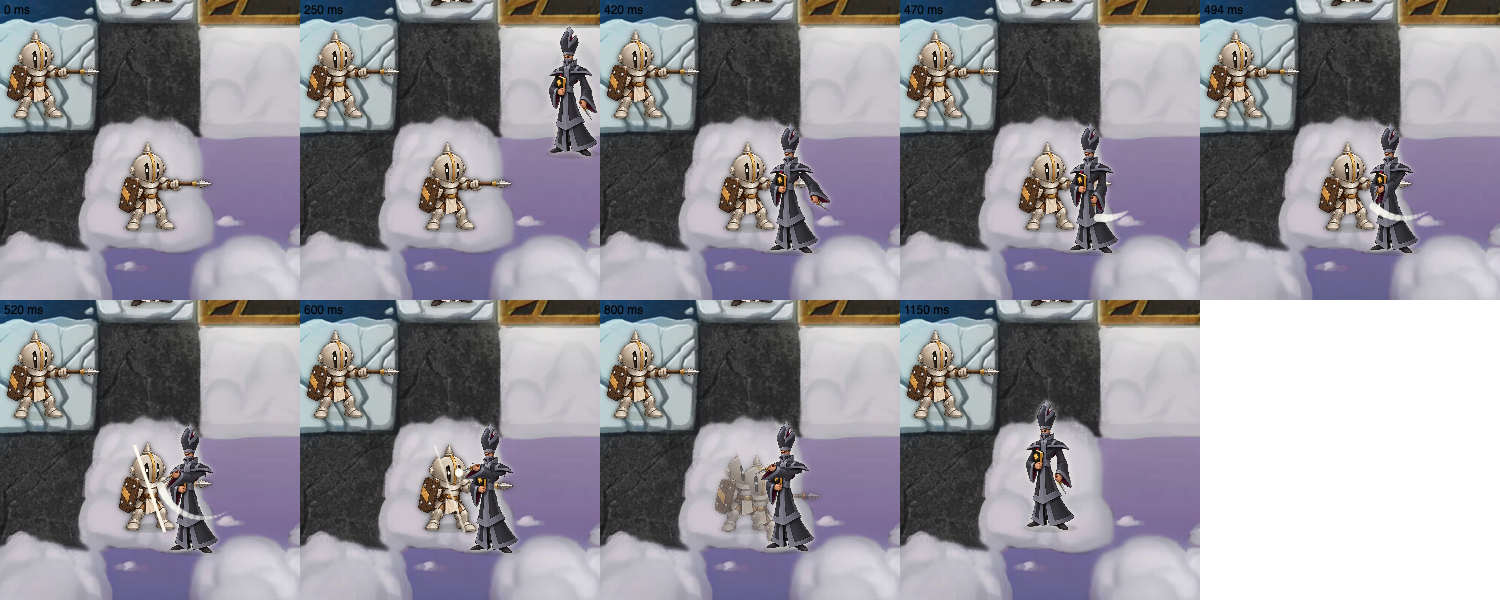
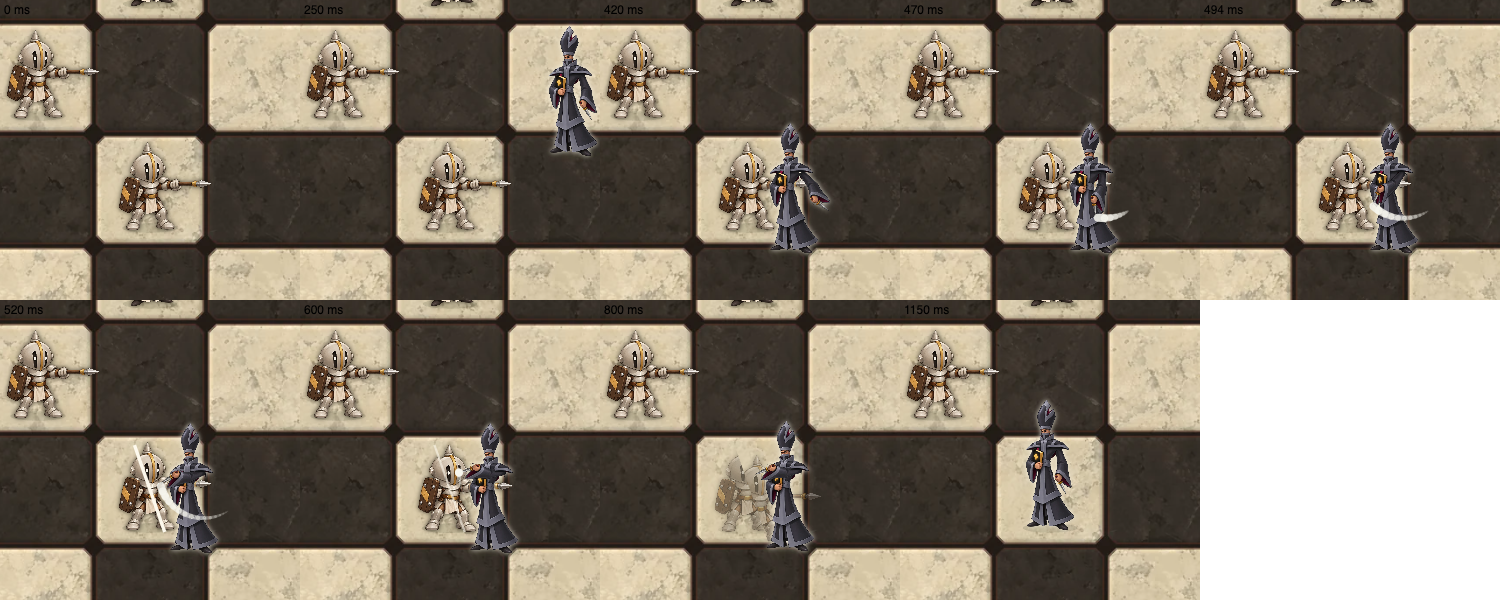
Painted stone board inspired by the original board's capital tiles

diff --git a/docs/2d-first-pieces/board-art/compose-board.py b/docs/2d-first-pieces/board-art/compose-board.py
@@ -1,0 +1,59 @@
+"""Compose the painted stone board from the two generated stone textures.
+
+Inspired by the centre 2x2 (capital) of the original King Down board, without its gold: cream
+limestone and charcoal slate squares with chamfered corners, a thin red-brown outline, a soft
+painted bevel and dark grout. The grid is exact because each square is cut from the textures
+here, not drawn by the image model. Deterministic (fixed seed).
+
+    python3 docs/2d-first-pieces/board-art/compose-board.py
+"""
+from pathlib import Path
+import random
+import numpy as np
+from PIL import Image, ImageDraw
+
+here = Path(__file__).parent
+BOARD, N = 1024, 8
+T = BOARD // N            # 128 px per square
+GAP = 4                   # grout between squares
+INNER = T - GAP
+CHAMFER = 9               # corner cut, as on the reference tiles
+CROP = 330                # texture pixels per square: keeps the veins at the reference's scale
+GROUT = (35, 28, 24)
+OUTLINE = (74, 42, 32, 170)
+
+rng = random.Random(1)
+stones = {kind: Image.open(here / f'source/{kind}-stone.png').convert('RGB') for kind in ('light', 'dark')}
+
+def chamfer_polygon(size, cut):
+    return [(cut, 0), (size - 1 - cut, 0), (size - 1, cut), (size - 1, size - 1 - cut),
+            (size - 1 - cut, size - 1), (cut, size - 1), (0, size - 1 - cut), (0, cut)]
+
+mask = Image.new('L', (INNER, INNER), 0)
+ImageDraw.Draw(mask).polygon(chamfer_polygon(INNER, CHAMFER), fill=255)
+# Painted bevel: light along the top and left edges, shade along the bottom and right.
+y, x = np.mgrid[0:INNER, 0:INNER].astype(np.float32)
+edge = 7.0
+light = np.clip(1 - np.minimum(x, y) / edge, 0, 1)
+shade = np.clip(1 - np.minimum(INNER - 1 - x, INNER - 1 - y) / edge, 0, 1)
+bevel = (1 + 0.16 * light - 0.22 * shade)[..., None]
+
+board = Image.new('RGB', (BOARD, BOARD), GROUT)
+for row in range(N):
+    for col in range(N):
+        kind = 'light' if (row + col) % 2 == 0 else 'dark'   # row 0 is rank 8: a8 is light, a1 dark
+        src = stones[kind]
+        ox, oy = rng.randrange(0, src.width - CROP), rng.randrange(0, src.height - CROP)
+        tile = src.crop((ox, oy, ox + CROP, oy + CROP)).resize((INNER, INNER), Image.LANCZOS)
+        tile = tile.rotate(90 * rng.randrange(4))
+        if rng.random() < 0.5:
+            tile = tile.transpose(Image.FLIP_LEFT_RIGHT)
+        tone = 1 + rng.uniform(-0.035, 0.035)                  # hand-laid stones differ slightly
+        arr = np.asarray(tile, np.float32) * bevel * tone
+        tile = Image.fromarray(np.clip(arr, 0, 255).astype(np.uint8))
+        overlay = Image.new('RGBA', (INNER, INNER))
+        ImageDraw.Draw(overlay).polygon(chamfer_polygon(INNER, CHAMFER), outline=OUTLINE, width=2)
+        tile = Image.alpha_composite(tile.convert('RGBA'), overlay).convert('RGB')
+        board.paste(tile, (col * T + GAP // 2, row * T + GAP // 2), mask)
+board.save(here / 'stone-board.png')
+print('wrote', here / 'stone-board.png')

diff --git a/docs/2d-first-pieces/web-art.py b/docs/2d-first-pieces/web-art.py
@@ -8,5 +8,5 @@ SHEETS = ['king/king', 'beast/beast', 'queen/queen', 'paladin/paladin', 'maester
           'wrist-bow/archer', 'ogre/ogre', 'knight/knight', 'bishop/bishop', 'rook/rook', 'guard/guard']
 for name in SHEETS:
     Image.open(here / f'{name}.png').save(here / f'{name}.webp', 'WEBP', quality=82, method=6)
-# The King Down biome board (Drive `board_colored_4K.jpg`, 1200 px research copy).
-Image.open(here / '../research/drive-assets/final-art/board-biomes-capital.jpg').save(here / 'board-art/biome-board.webp', 'WEBP', quality=86, method=6)
+# The painted stone board (board-art/compose-board.py), inspired by the original board's capital.
+Image.open(here / 'board-art/stone-board.png').save(here / 'board-art/stone-board.webp', 'WEBP', quality=86, method=6)

diff --git a/docs/2d-first-pieces/board-art/README.md b/docs/2d-first-pieces/board-art/README.md
@@ -1,5 +1,9 @@
 # Board artwork
 
-`biome-board.webp` is the King Down game board: the biome side of the printed board, from the Drive root `board_colored_4K.jpg` (rulebook orientation: earth top, fire right, sky bottom, ice left, gold capital in the centre 2×2). Made from the 1200 px research copy `docs/research/drive-assets/final-art/board-biomes-capital.jpg` by `../web-art.py`. Original King Down art (© Saar Shai).
+`stone-board.png` (web copy `stone-board.webp`) is the painted board used by the game and the board trial. Owner direction, 2026-09-27: take inspiration from the centre four tiles (the capital) of the original King Down board, without the gilding, covering the whole board.
 
-Not used: the marble chess side (`board-front_back.ai` page 2, `board-2500x2500px.png`). Its marble comes from textures.com stock photos (`FloorsCheckerboard0037`), whose licence forbids distributing the content by itself; those files were removed from the public repository history on 2026-09-26.
+- `source/capital-reference.png` — the capital 2×2 cropped from the original biome board (Drive `board_colored_4K.jpg`, via `docs/research/drive-assets/final-art/board-biomes-capital.jpg`).
+- `source/light-stone.png`, `source/dark-stone.png` — cream limestone and charcoal slate textures from Codex built-in image generation, with the capital crop as reference. Exact prompts in `source/*-prompt.txt`; generator output paths in `source/*-generated-source.txt`. Unmodified.
+- `compose-board.py` cuts the 64 squares from those textures (varied crop, rotation and tone; fixed seed) and adds the capital's chamfered corners, thin red-brown outline, soft bevel and dark grout. The grid is exact because the script, not the image model, lays it out. `../web-art.py` writes the WebP.
+
+Not used: the marble chess side of the original board (`board-front_back.ai` page 2, `board-2500x2500px.png`). Its marble comes from textures.com stock photos (`FloorsCheckerboard0037`), whose licence forbids distributing the content by itself; those files were removed from the public repository history on 2026-09-26. The full biome board was used briefly on 2026-09-27 and replaced by this stone board at the owner's request.

diff --git a/docs/painted-game/README.md b/docs/painted-game/README.md
@@ -3,7 +3,7 @@
 The game can now be played in the painted 2D look: the full rules, random armies, the computer opponent, Hint, Undo, saves, special-move controls and promotions, drawn with the painted figures and their capture animations.
 
 - **Default look** (owner, 2026-09-27). *Look* in the side panel switches to Clay 3D, or `?look=clay`; the choice is remembered.
-- **Board:** the King Down biome board from the Drive ([board-art](../2d-first-pieces/board-art/README.md)); it turns round with the view. Each figure has a soft contrasting rim (dark for ivory, pale for charcoal) so both armies read on the light and dark zones.
+- **Board:** painted cream and charcoal stone, inspired by the capital tiles of the original King Down board, without the gold ([board-art](../2d-first-pieces/board-art/README.md)); it turns round with the view. Each figure has a soft contrasting rim (dark for ivory, pale for charcoal) so both armies read on the light and dark zones.
 - **Art size:** pieces and board load as WebP at full resolution (1.9 MB in total, down from 23 MB of PNG), so every animation coordinate still matches. PNG masters remain the source; regenerate with `python3 docs/2d-first-pieces/web-art.py`.
 - **How:** `src/render/PaintedView.ts` implements the same board interface as the clay renderer (`BoardView`), so `main.ts` is unchanged apart from choosing the view. It uses the shared scene `docs/2d-first-pieces/board/scene.mjs` — the same figures, poses and capture animations as the board trial, which now runs on that scene too.
 - **Board:** square canvas with headroom above the back rank so tall figures are never clipped; turns round when the human plays Black; click, click-click and drag-to-move work as in clay; markers for moves, captures, swaps, pushes, last move, hint and check.

diff --git a/TASKS.md b/TASKS.md
@@ -1,5 +1,9 @@
 # Tasks
 
+## Stone board from the capital tiles — 2026-09-27
+- Owner: instead of the original board, create artwork inspired by its centre four tiles, minus the gilding, covering the whole board.
+- [x] Two stone textures (cream limestone, charcoal slate) generated from the capital crop; `compose-board.py` lays an exact 8×8 with the capital's chamfer, red-brown outline, bevel and grout. Game and trial use it (112 KB WebP). Painted game check, 12 trial captures and build pass. [Provenance](docs/2d-first-pieces/board-art/README.md).
+
 ## Painted default, smaller art, King Down board — 2026-09-27
 - Owner: painted look is the default; shrink the painted images; use the board artwork from the King Down Drive.
 - [x] Painted 2D is the default look (`?look=clay` or the Look menu for clay). Pieces and board ship as full-resolution WebP: 1.9 MB instead of 23 MB, coordinates unchanged (`docs/2d-first-pieces/web-art.py`). The biome board (Drive `board_colored_4K.jpg`) is the board surface in game and trial; figures get a contrasting rim for readability. The marble chess side was not used: textures.com stock ([board-art](docs/2d-first-pieces/board-art/README.md)).
